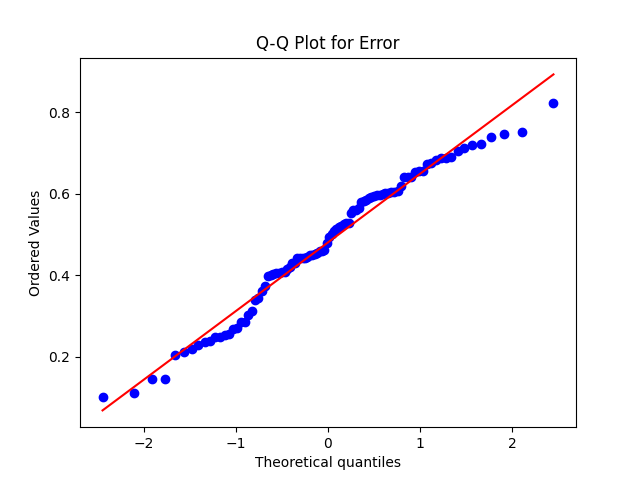
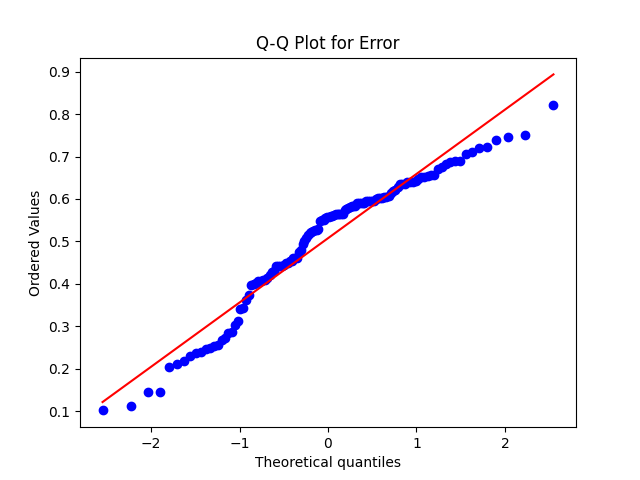
added functionsin the script for the tukey pairwise test like bastian

diff --git a/within_subject_anova_auro.py b/within_subject_anova_auro.py
@@ -1,12 +1,14 @@
 import os
 import pandas as pd
 import numpy as np
-#Added imports for non parametric tests: do we want to use wilcoxon or nemenyi?
+
+# Added imports for non parametric tests: do we want to use wilcoxon or nemenyi?
 from scipy.stats import (
     norm, probplot, shapiro, ttest_rel, 
     friedmanchisquare, wilcoxon
 )
 from statsmodels.stats.anova import AnovaResults, AnovaRM
+from statsmodels.stats.multicomp import pairwise_tukeyhsd
 from statsmodels.stats.multitest import multipletests
 import matplotlib.pyplot as plt
 from itertools import combinations
@@ -15,7 +17,7 @@ from itertools import combinations
 BASE_PATH = "layout_algorithms_performance"
 
 RESULTS_DIR = os.path.join(BASE_PATH, "results")
-MODELS_TO_LOAD = ["gemini-2.5-flash", "mistral-small-3.1-2b", "gpt-5", "glm-4.5v-106b"]
+MODELS_TO_LOAD = ["gemini-2.5-flash", "mistral-small-3.1-24b", "gpt-5", "glm-4.5v-106b"]
 SHOT_TYPES = ["zero_shot", "few_shot"]
 COT_TYPES = ["cot", "no_cot"]
 
@@ -72,7 +74,7 @@ def pre_transform(df: pd.DataFrame):
     df["Subject"] = (
         df["Model"].astype(str)
         + "_"
-        + df["Shots"].astype(str)
+        + df["Shots"].astype(str).apply(lambda x: x.split("-")[0])
         + "_"
         + df["Cot"].astype(str)
     )
@@ -97,7 +99,7 @@ def check_normality(df: pd.DataFrame, dv="Error"):
     data = df_agg[dv].dropna()
     if data.empty or len(data) < 3:
         print(f"No data for {dv} to check.")
-        return False # Cannot be normal if no data
+        return False  # Cannot be normal if no data
     
     # Visual inspections 
     # 1. Q-Q Plot
@@ -106,7 +108,7 @@ def check_normality(df: pd.DataFrame, dv="Error"):
     plt.title(f"Q-Q Plot for {dv}")
     qq_plot_filename = f"qq_plot_{dv}.png"
     plt.savefig(qq_plot_filename)
-    #print(f"Saving Q-Q plot to {qq_plot_filename}")
+    # print(f"Saving Q-Q plot to {qq_plot_filename}")
     plt.show() 
     plt.close()
 
@@ -115,14 +117,15 @@ def check_normality(df: pd.DataFrame, dv="Error"):
     mu, sigma = data.mean(), data.std(ddof=0)
     
     padding = 0.1 * (data.max() - data.min() if data.max() != data.min() else 1.0)
-    if np.isnan(padding) or padding == 0: padding = 1.0
+    if np.isnan(padding) or padding == 0: 
+        padding = 1.0
     
     xs_min = data.min() - padding
     xs_max = data.max() + padding
 
     if np.isnan(xs_min) or np.isnan(xs_max):
         print("Cannot generate linspace, invalid min/max/padding. Using fallback.")
-        xs = np.linspace(mu - 3*sigma, mu + 3*sigma, 200)
+        xs = np.linspace(mu - 3 * sigma, mu + 3 * sigma, 200)
     else:
         xs = np.linspace(xs_min, xs_max, 200)
 
@@ -134,18 +137,18 @@ def check_normality(df: pd.DataFrame, dv="Error"):
     plt.legend()
     plot_filename = f"normality_plot_{dv}.png"
     plt.savefig(plot_filename)
-    #print(f"Saving normality plot to {plot_filename}")
+    # print(f"Saving normality plot to {plot_filename}")
     plt.show() 
     plt.close()
 
     # Global Shapiro-Wilk Normality Check
     try:
         stat, p = shapiro(data)
-        print(f"Global Normality Check (Shapiro-Wilk): \n W={stat:.3f}, p={p:.3f}{'    <--- NOT NORMAL' if p < 0.05 else ''}\n")
+        print(f"Global Normality Check (Shapiro-Wilk): \n W={stat:.3f}, p={p:.3f}{'     <--- NOT NORMAL' if p < 0.05 else ''}\n")
         is_global_normal = p > 0.05
     except Exception as e:
         print(f"Global Shapiro Error: {e}")
-        return False # Cannot proceed
+        return False  # Cannot proceed
 
     # Per-Group (Layout) Normality Check
     all_groups_normal = True
@@ -156,7 +159,7 @@ def check_normality(df: pd.DataFrame, dv="Error"):
             print(f"{cond}: SKIPPED (insufficient data, N={len(subset_data)})")
             continue
         stat, p = shapiro(subset_data)
-        print(f"{cond}: W={stat:.3f}, p={p:.3f}{'    <--- NOT NORMAL' if p < 0.05 else ''}\n")
+        print(f"{cond}: W={stat:.3f}, p={p:.3f}{'     <--- NOT NORMAL' if p < 0.05 else ''}\n")
         if p < 0.05:
             all_groups_normal = False
             
@@ -193,7 +196,7 @@ def run_parametric_post_hoc(df: pd.DataFrame, dv="Error", alpha=0.05):
             print(f"Skipping {layout_a} vs {layout_b}: insufficient paired data")
             continue
             
-        stat, p = ttest_rel(common_data['a'], common_data['b']) # Paired T-test
+        stat, p = ttest_rel(common_data['a'], common_data['b'])  # Paired T-test
         p_values.append(p)
         results.append((layout_a, layout_b, stat, p))
 
@@ -203,7 +206,7 @@ def run_parametric_post_hoc(df: pd.DataFrame, dv="Error", alpha=0.05):
 
     reject, p_values_corrected, _, _ = multipletests(p_values, alpha=alpha, method='holm')
     
-    print("Layout A       | Layout B       |   T-Stat |  p-unc | p-adj (Holm) | Significant")
+    print("Layout A       | Layout B       |   T-Stat |   p-unc | p-adj (Holm) | Significant")
     print("-" * 75)
     for i, (layout_a, layout_b, stat, p) in enumerate(results):
         sig_str = "YES" if reject[i] else "no"
@@ -238,9 +241,9 @@ def run_non_parametric_post_hoc(df: pd.DataFrame, dv="Error", alpha=0.05):
         try:
             stat, p = wilcoxon(common_data['a'], common_data['b'], zero_method='wilcox')
         except ValueError:
-             # This can happen if all differences are zero,
-             # in which case p=1.0 and stat=0 (or NaN)
-             stat, p = 0.0, 1.0
+            # This can happen if all differences are zero,
+            # in which case p=1.0 and stat=0 (or NaN)
+            stat, p = 0.0, 1.0
 
         p_values.append(p)
         results.append((layout_a, layout_b, stat, p))
@@ -253,7 +256,7 @@ def run_non_parametric_post_hoc(df: pd.DataFrame, dv="Error", alpha=0.05):
     # for non-parametric post-hocs like this.
     reject, p_values_corrected, _, _ = multipletests(p_values, alpha=alpha, method='bonferroni')
     
-    print("Layout A       | Layout B       |   W-Stat |  p-unc | p-adj (Bonf) | Significant")
+    print("Layout A       | Layout B       |   W-Stat |   p-unc | p-adj (Bonf) | Significant")
     print("-" * 75)
     for i, (layout_a, layout_b, stat, p) in enumerate(results):
         sig_str = "YES" if reject[i] else "no"
@@ -267,7 +270,7 @@ def run_main_parametric_analysis(df: pd.DataFrame):
     """
     print("\n\n" + "=" * 80)
     print("STEP 2: PARAMETRIC ANALYSIS (REPLICATING PAPER)")
-    print("         (ANOVA is run regardless of normality)")
+    print("        (ANOVA is run regardless of normality)")
     print("=" * 80)
 
     # --- Analysis for Error ---
@@ -278,13 +281,13 @@ def run_main_parametric_analysis(df: pd.DataFrame):
             depvar="Error",
             subject="Subject",
             within=["Layout"],
-            aggregate_func="mean", # Automatically aggregates the 3 questions
+            aggregate_func="mean",  # Automatically aggregates the 3 questions
         ).fit()
         print(aov_error)
         error_p_value = aov_error.anova_table["Pr > F"].iloc[0]
     except Exception as e:
         print(f"Error during AnovaRM for Error: {e}")
-        error_p_value = 1.0 # Set to 1 to skip post-hoc
+        error_p_value = 1.0  # Set to 1 to skip post-hoc
 
     # --- Analysis for Output Tokens (Response Time) ---
     print("\n--- Main Effect of Layout on Output_Tokens (ANOVA) ---")
@@ -300,7 +303,7 @@ def run_main_parametric_analysis(df: pd.DataFrame):
         tokens_p_value = aov_tokens.anova_table["Pr > F"].iloc[0]
     except Exception as e:
         print(f"Error during AnovaRM for Output_Tokens: {e}")
-        tokens_p_value = 1.0 # Set to 1 to skip post-hoc
+        tokens_p_value = 1.0  # Set to 1 to skip post-hoc
 
     # --- Post-Hoc Analysis ---
     print("\n" + "=" * 80)
@@ -353,6 +356,61 @@ def run_non_parametric_analysis(df: pd.DataFrame, dv="Error"):
         print(f"Error during Friedman test for {dv}: {e}")
 
 
+def pairwise_comparison(df: pd.DataFrame, dv="Error", alpha=0.05):
+    """
+    Runs the classic Tukey's HSD post-hoc test.
+    """
+    print(f"\n--- Classic Tukey HSD Post-Hoc for {dv} ---")
+    df = df.copy()
+    
+    df_agg = df.groupby(["Subject", "Layout"], as_index=False)[dv].mean()
+
+    try:
+        tukey_results = pairwise_tukeyhsd(
+            endog=df_agg[dv],        
+            groups=df_agg["Layout"],
+            alpha=alpha
+        )
+        
+        print(f"\nTukey HSD Results for {dv}:\n")
+        print(tukey_results.summary())
+        
+    except Exception as e:
+        print(f"Error running Tukey HSD: {e}")
+
+
+# NEW: save wide-format CSV for R analysis like bastian
+def save_wide_format_for_R(df: pd.DataFrame, dv="Error"):
+    """
+    Aggregates data and pivots to a single wide-format CSV 
+    for the R script (tukeySEM).
+    
+    This version creates ONE file with ALL layouts as columns,
+    as required by the "Performance of Layout Algorithms" paper.
+    """
+    print(f"\n--- Saving Wide-Format CSV for R ({dv}) ---")
+    
+    df_agg = df.groupby(["Subject", "Layout"], as_index=False)[dv].mean()
+
+    
+    try:
+        # Index: Subject
+        # Columns: the 8 Layouts
+        # Values: error means
+        df_wide = df_agg.pivot(index="Subject", columns="Layout", values=dv)
+        
+        filename = f"{dv.lower()}_per_subject_all_layouts.csv"
+        out_path = os.path.join("./", filename) 
+        
+        df_wide.to_csv(out_path, index=False)
+        
+        print(f"Successfully saved wide-format data to: {out_path}")
+        print(f"You can now use this file in the R script for Tukey.")
+
+    except Exception as e:
+        print(f"Error pivoting or saving wide format: {e}")
+
+
 if __name__ == "__main__":
     master_data_frame = load_and_aggregate_results()
     
@@ -370,7 +428,7 @@ if __name__ == "__main__":
         is_tokens_normal = check_normality(df_transformed.copy(), dv="Output_Tokens")
         
         # Run the main PARAMETRIC analyses (ANOVA + Post-Hoc)
-        #    (This is run ALWAYS to replicate the paper--> is it correct tho?)
+        #     (This is run ALWAYS to replicate the paper--> is it correct tho?)
         run_main_parametric_analysis(df_transformed.copy())
         
         # Run the NON-PARAMETRIC fallback tests
@@ -391,8 +449,24 @@ if __name__ == "__main__":
         else:
             print("\n-> Normality met for Output_Tokens. Non-parametric test skipped.")
 
+
+        # NEW: RUN TUKEY HSD POST-HOC ---
+        print("\n\n" + "=" * 80)
+        print("STEP 5: TUKEY HSD PAIRWISE COMPARISONS")
+        print("=" * 80)
+        
+        # Run the Tukey HSD test for the 'Error' variable
+        pairwise_comparison(df_transformed.copy(), dv="Error")
+
+        # New: save wide-format CSV for R analysis
+        print("\n\n" + "=" * 80)
+        print("STEP 6: EXPORTING DATA FOR R (TukeySEM)")
+        print("=" * 80)
+        save_wide_format_for_R(df_transformed.copy(), dv="Error")
+        
         print("\n\n" + "=" * 80)
         print("Analysis complete.")
         print("=" * 80)
+        
     else:
         print(f"Error: No data loaded. Check path: {RESULTS_DIR}")
